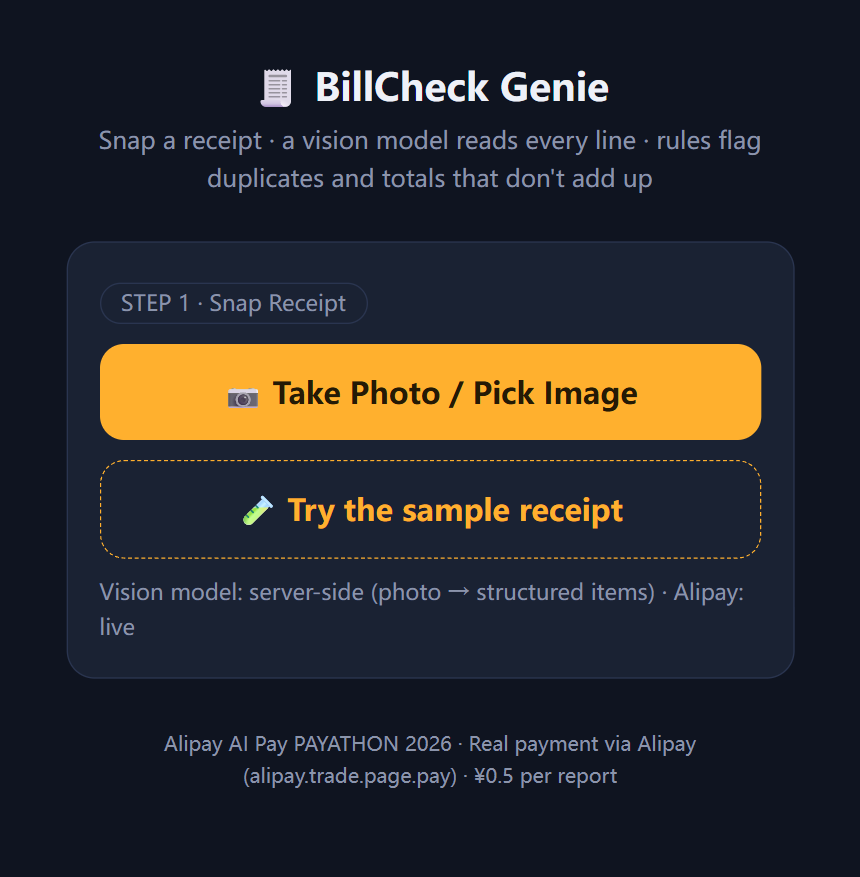
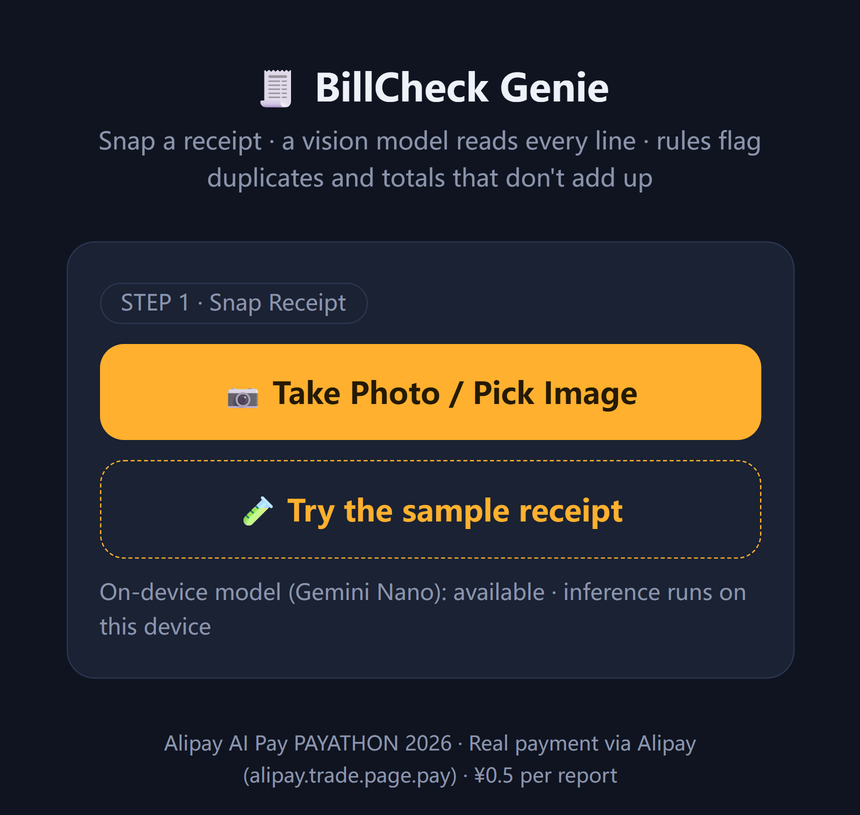
Pin Firebase AI Logic to on-device inference
Cloud Gemini needs a billing account on this project, and a Chinese Visa
card cannot be attached to Google Payments. Rather than fight that, pin
the hybrid API to InferenceMode.ONLY_ON_DEVICE: Firebase AI Logic still
does the work, inference runs in Chrome's built-in Gemini Nano, and the
project stays on the free Spark plan with zero per-scan API cost.

- hybrid-ai.js: ONLY_ON_DEVICE, declare expectedInputs for text + image,
  drop the cloud model and the cloud retry (server proxy is the fallback)
- index.html: honest badge/hint copy, no more 'cloud Gemini' claim
- README: explain the trade-off and the App Check-only network capture
- docs: re-shot home and report screenshots

Verified locally: 5-line receipt read end to end in 13s, duplicate line
flagged, total 128.50 matched; the only outbound request was the App
Check token exchange.

diff --git a/app/hybrid-ai.js b/app/hybrid-ai.js
@@ -1,16 +1,18 @@
-// hybrid-ai.js — 浏览器端 Firebase AI Logic（hybrid inference）
+// hybrid-ai.js — 浏览器端 Firebase AI Logic（on-device inference）
 //
-// 端侧优先：可用时用 Chrome 内置 Gemini Nano（Prompt API）在设备上推理，
-// 不可用时由 SDK 自动回落到云端 Gemini。两条路都跑同一个 prompt 与 JSON 解析。
+// 设计取舍：只用端侧。Firebase AI Logic 的 hybrid API 支持四种推理模式，
+// 这里固定用 ONLY_ON_DEVICE —— 推理跑在 Chrome 内置的 Gemini Nano 上，
+// 小票照片不离开设备、没有 API 调用费用、也不依赖项目的计费状态。
+// 端侧不可用时（旧浏览器 / 模型未下载完）直接抛错，由 index.html 回落到
+// 服务端 /api/scan，用户不会看到白屏。
 //
 // 依赖通过 CDN 动态 import，项目本身仍然零构建（no bundler）。
 
 import { SYSTEM_PROMPT, USER_PROMPT, extractJson, auditReceipt } from './audit.js';
 
 const CDN = 'https://www.gstatic.com/firebasejs/13.4.0';
-const DEFAULT_CLOUD_MODEL = 'gemini-2.5-flash';
 
-let cache = null;   // { hybrid, cloudOnly, config }
+let cache = null;   // { model, config, sdk }
 
 function config() {
   const c = (typeof window !== 'undefined' && window.__FIREBASE_CONFIG__) || null;
@@ -18,15 +20,21 @@ function config() {
   return c;
 }
 
-/** 端侧模型可用性（不依赖 Firebase，直接问 Chrome 的 Prompt API） */
+/** 端侧能力探测（不依赖 Firebase，直接问 Chrome 的 Prompt API） */
 export async function onDeviceAvailability() {
-  if (typeof LanguageModel === 'undefined') return { supported: false, state: 'unavailable' };
-  try {
-    const state = await LanguageModel.availability();
-    return { supported: true, state };
-  } catch (e) {
-    return { supported: true, state: 'error', message: String(e && e.message ? e.message : e) };
+  if (typeof LanguageModel === 'undefined') {
+    return { supported: false, state: 'unavailable', text: 'unavailable', image: 'unavailable' };
   }
+  const out = { supported: true, text: 'unknown', image: 'unknown' };
+  try {
+    out.text = await LanguageModel.availability();
+    out.image = await LanguageModel.availability({ expectedInputs: [{ type: 'image' }] });
+    out.state = out.image === 'available' ? 'available' : out.image;
+  } catch (e) {
+    out.state = 'error';
+    out.message = String(e && e.message ? e.message : e);
+  }
+  return out;
 }
 
 async function build() {
@@ -34,40 +42,41 @@ async function build() {
   const cfg = config();
   if (!cfg) throw new Error('firebase config missing (app/firebase-config.js)');
 
-  const [{ initializeApp }, ai] = await Promise.all([
+  const [{ initializeApp }, ai, appCheck] = await Promise.all([
     import(`${CDN}/firebase-app.js`),
     import(`${CDN}/firebase-ai.js`),
+    import(`${CDN}/firebase-app-check.js`),
   ]);
 
   const app = initializeApp(cfg, 'billcheck');
+
+  // App Check 在 AI Logic 上是强制校验项：即使是端侧推理，
+  // SDK 初始化也会读这个配置，缺了会在开发期报错。
+  if (cfg.appCheck && cfg.appCheck.siteKey) {
+    const provider = cfg.appCheck.provider === 'enterprise'
+      ? new appCheck.ReCaptchaEnterpriseProvider(cfg.appCheck.siteKey)
+      : new appCheck.ReCaptchaV3Provider(cfg.appCheck.siteKey);
+    appCheck.initializeAppCheck(app, { provider, isTokenAutoRefreshEnabled: true });
+  }
+
   const aiInstance = ai.getAI(app, { backend: new ai.GoogleAIBackend() });
 
-  const cloudModel = cfg.cloudModel || DEFAULT_CLOUD_MODEL;
-  const hybrid = ai.getGenerativeModel(aiInstance, {
-    mode: ai.InferenceMode.PREFER_ON_DEVICE,
+  // ONLY_ON_DEVICE：不建云端模型、不发云端请求。
+  const model = ai.getGenerativeModel(aiInstance, {
+    mode: ai.InferenceMode.ONLY_ON_DEVICE,
     onDeviceParams: {
       createOptions: {
         initialPrompts: [{ role: 'system', content: SYSTEM_PROMPT }],
-      },
-    },
-    inCloudParams: {
-      model: cloudModel,
-      systemInstruction: SYSTEM_PROMPT,
-      generationConfig: {
-        responseMimeType: 'application/json',
-        temperature: 0.1,
-        maxOutputTokens: 1200,
+        expectedInputs: [
+          { type: 'text', languages: ['en'] },
+          { type: 'image' },
+        ],
+        expectedOutputs: [{ type: 'text', languages: ['en'] }],
       },
     },
   });
 
-  const cloudOnly = ai.getGenerativeModel(aiInstance, {
-    model: cloudModel,
-    systemInstruction: SYSTEM_PROMPT,
-    generationConfig: { responseMimeType: 'application/json', temperature: 0.1, maxOutputTokens: 1200 },
-  });
-
-  cache = { hybrid, cloudOnly, config: cfg, sdk: ai };
+  cache = { model, config: cfg, sdk: ai };
   return cache;
 }
 
@@ -80,41 +89,27 @@ function parts(dataUrl) {
   ];
 }
 
-function sourceLabel(src) {
-  if (src === 'on_device') return 'on-device · Gemini Nano';
-  if (src === 'in_cloud') return 'cloud · Gemini';
-  return 'unknown';
-}
-
 /**
- * 扫描一张小票。
+ * 扫描一张小票（纯端侧推理）。
+ * 失败时抛错，调用方负责回落到服务端。
  * @returns {Promise<{items,findings,total,dupTotal,merchant,currency,engine,source,sourceLabel}>}
  */
 export async function scanReceipt(dataUrl) {
-  const { hybrid, cloudOnly } = await build();
+  const { model } = await build();
   const content = parts(dataUrl);
 
-  let result;
-  try {
-    result = await hybrid.generateContent(content);
-  } catch (err) {
-    // 端侧失败（模型未下载 / 浏览器不支持多模态输入）→ 显式再走一次纯云端
-    if (typeof console !== 'undefined') console.warn('[hybrid] on-device path failed, retrying in cloud:', err && err.message);
-    result = await cloudOnly.generateContent(content);
-    result.__fallbackReason = String((err && err.message) || err);
-  }
+  const result = await model.generateContent(content);
 
   const text = result.response.text();
   const parsed = extractJson(text);
   if (!parsed) throw new Error('model returned no JSON');
 
   const report = auditReceipt(parsed);
-  const source = result.inferenceSource || 'in_cloud';
+  const source = result.inferenceSource || 'on_device';
   return {
     ...report,
-    engine: sourceLabel(source),
+    engine: 'on-device · Gemini Nano',
     source,
-    sourceLabel: sourceLabel(source),
-    fallbackReason: result.__fallbackReason || null,
+    sourceLabel: 'on-device · Gemini Nano',
   };
 }

diff --git a/app/index.html b/app/index.html
@@ -104,7 +104,7 @@ function readAsDataURL(file) {
 }
 
 async function scan(imageDataUrl) {
-  // 1) 浏览器端 Firebase AI Logic：端侧 Gemini Nano 优先，不可用时自动到云端
+  // 1) 浏览器端 Firebase AI Logic：只用端侧 Gemini Nano，照片不出本机
   if (window.__FIREBASE_CONFIG__) {
     try {
       const mod = await import('./hybrid-ai.js');
@@ -131,17 +131,16 @@ async function scan(imageDataUrl) {
   try {
     const mod = await import('./hybrid-ai.js');
     const a = await mod.onDeviceAvailability();
-    const hasCfg = !!window.__FIREBASE_CONFIG__;
     if (!a.supported) {
-      el.textContent = hasCfg
-        ? 'On-device model not exposed by this browser — inference will run in the cloud.'
-        : 'Cloud inference active. Open in Chrome 139+ to run the on-device model.';
+      el.textContent = 'This browser does not expose the on-device model — using the server-side model instead.';
       return;
     }
     const label = { available: 'available', downloadable: 'needs a one-time download', downloading: 'downloading', unavailable: 'unavailable' }[a.state] || a.state;
-    el.textContent = `On-device model (Gemini Nano): ${label} · hybrid inference prefers on-device`;
+    el.textContent = a.state === 'available'
+      ? 'On-device model (Gemini Nano): available · inference runs on this device'
+      : `On-device model (Gemini Nano): ${label} · keeps the photo on-device`;
   } catch (e) {
-    el.textContent = 'Checking model availability failed — cloud inference will be used.';
+    el.textContent = 'Checking model availability failed — the server-side model will be used.';
   }
 })();
 
@@ -166,9 +165,7 @@ function setSourceBadge(r) {
   el.className = 'src-badge show ' + (device ? 'device' : 'cloud');
   el.textContent = device
     ? '⚡ On-device · Gemini Nano — the photo never left this device'
-    : hybrid
-      ? '☁ Cloud · Gemini — on-device model unavailable on this browser'
-      : '☁ Cloud · server proxy';
+    : '☁ Server-side model — on-device unavailable on this browser';
   el.title = r.fallbackReason ? 'on-device attempt failed: ' + r.fallbackReason : '';
 }
 

diff --git a/app/firebase-config.js b/app/firebase-config.js
@@ -1,22 +1,27 @@
 // firebase-config.js — 公开的 Firebase Web 配置（apiKey 对 Web 应用本身就是公开信息，
 // 真正的访问控制在 App Check + Firebase 控制台的授权域名）。
 //
-// 拿到真实配置后，把下面整个对象替换成 Firebase 控制台「项目设置 → 你的应用」里给出的 config。
-// 保持字段名不变，可直接粘贴。
-//
-// 未配置时：app 会自动回落到服务端 /api/scan（WorkBuddy 云 LLM），页面照常可用，
-// 只是不会走 Firebase AI Logic。
+// 项目：billcheck-genie（Spark 免费计划）
+// 推理模式：Firebase AI Logic + InferenceMode.ONLY_ON_DEVICE
+//   → 推理跑在 Chrome 内置的 Gemini Nano 上，不调用云端 Gemini，
+//     因此不需要 Blaze 计划、不需要绑定结算账号，也不产生 API 费用。
+// 端侧不可用时：app 自动回落到服务端 /api/scan，页面照常可用。
 
-window.__FIREBASE_CONFIG__ = null;
-
-/* 填好后的样子（示例，勿直接使用）：
 window.__FIREBASE_CONFIG__ = {
-  apiKey: "AIza...",
+  apiKey: "AIzaSyA4UU66GVgLTMy519hdh8zZsJ8-LhHY1mE",
   authDomain: "billcheck-genie.firebaseapp.com",
   projectId: "billcheck-genie",
   storageBucket: "billcheck-genie.firebasestorage.app",
-  messagingSenderId: "000000000000",
-  appId: "1:000000000000:web:abcdef123456",
-  cloudModel: "gemini-2.5-flash"   // 云端回落用的模型，可省
+  messagingSenderId: "697066343375",
+  appId: "1:697066343375:web:4cbafb6b34768aed0f60ba",
+  // App Check（Firebase 自 2026-11-02 起对 AI Logic 强制要求）
+  // provider: "enterprise" = Google Cloud Fraud Defense（原 reCAPTCHA Enterprise）
+  appCheck: {
+    provider: "enterprise",
+    siteKey: "6Lc-dTAuAAAAAK6AdshKOAl2GX1LY1K2l0YKEmrO"
+  }
 };
-*/
+
+// 本地调试 App Check（只在你自己机器上有效）：把控制台打印的 token 贴到
+// Firebase 控制台 → App Check → 应用 → 管理调试令牌。生产域名请改用 reCAPTCHA v3。
+// self.FIREBASE_APPCHECK_DEBUG_TOKEN = true;

diff --git a/README.md b/README.md
@@ -2,7 +2,7 @@
 
 **Snap a receipt, get an AI audit of what you were overcharged — one check, one ¥0.5 payment.**
 
-Built for **Alipay AI Pay PAYATHON 2026** (Vibe Pay / machine-pay track), **SLAY HACKS 2026** and **Google #BuildHybridAI 2026** (Firebase AI Logic hybrid inference).
+Built for **Alipay AI Pay PAYATHON 2026** (Vibe Pay / machine-pay track), **SLAY HACKS 2026** and **Google #BuildHybridAI 2026** (Firebase AI Logic, on-device Gemini Nano with a hybrid-API fallback).
 
 | | |
 |---|---|
@@ -27,45 +27,62 @@ Built for **Alipay AI Pay PAYATHON 2026** (Vibe Pay / machine-pay track), **SLAY
 
 There is no hard-coded report. The photo is turned into structured JSON by a vision model, and the app audits the numbers.
 
-**Primary path — Firebase AI Logic, hybrid inference (browser):**
+**Primary path — Firebase AI Logic, on-device inference (browser):**
 
 ```
 photo (data URL)
-   └─> Firebase AI Logic SDK  (InferenceMode.PREFER_ON_DEVICE)
-          ├─ on-device: Chrome's built-in Gemini Nano via the Prompt API
-          │     (Chrome desktop 139+, no photo leaves the machine)
-          └─ fallback:  cloud-hosted Gemini through the same SDK
-   └─> strict JSON  ─>  auditReceipt()  ─> report + ⚡/☁ source badge
+   └─> Firebase AI Logic SDK  (InferenceMode.ONLY_ON_DEVICE)
+          └─ Chrome's built-in Gemini Nano, via the Prompt API
+                (multimodal input: the image is read on this machine)
+   └─> strict JSON  ─>  auditReceipt()  ─> report + ⚡ on-device badge
 ```
 
-**Fallback path — server proxy:** if no Firebase config is present, or the AI Logic call fails,
-the same photo goes to `POST /api/scan`, which calls a vision LLM from the server with the key
-kept server-side. The UI badge always says which path actually ran, so nothing here is implied.
+**Why on-device only — a deliberate choice, not a limitation.** A receipt is a document with a shop,
+a timestamp and a basket of what someone buys; uploading it to a hosted model is a real privacy cost
+for a report that only needs arithmetic. Pinning `ONLY_ON_DEVICE` gives three things at once:
+the photo never leaves the machine, there is no per-scan API cost, and the project needs no billing
+account (Firebase **Spark** is enough — nothing is ever sent to the Gemini API). The hybrid API is
+what makes this a one-line decision: the same `getGenerativeModel` call accepts
+`PREFER_ON_DEVICE` / `ONLY_IN_CLOUD` / `PREFER_IN_CLOUD`, so the deployment target is a single enum,
+not a rewrite. Verified with a DevTools network capture during a scan: the only outbound request is
+the App Check token exchange — there is no `generativelanguage.googleapis.com` traffic.
 
-- **Code**: `app/hybrid-ai.js` (imports `firebase/ai`, sets `mode: PREFER_ON_DEVICE`, reads `result.inferenceSource`) and `app/audit.js` (one audit implementation shared by browser and Node).
+**Fallback path — server proxy:** if the browser does not expose the on-device model (Safari, older
+Chrome), or the AI Logic call fails, the same photo goes to `POST /api/scan`, which calls a vision
+LLM from the server with the key kept server-side. The UI badge always says which path actually ran,
+so nothing here is implied:
+
+| badge | meaning |
+| --- | --- |
+| ⚡ On-device · Gemini Nano | Firebase AI Logic, inference ran locally |
+| ☁ Server-side model | on-device unavailable, server proxy handled it |
+
+- **Code**: `app/hybrid-ai.js` (imports `firebase/ai`, sets `mode: ONLY_ON_DEVICE`, declares `expectedInputs` for text + image, reads `result.inferenceSource`) and `app/audit.js` (one audit implementation shared by browser and Node).
 - **Prompt**: a fixed instruction pins the model to strict JSON and forbids inventing line items; unreadable values must be `null`.
 - **Schema**: `{"merchant","currency","items":[{"name","qty","unit_price","amount"}],"total"}`
 - **Audit**: `auditReceipt()` only does arithmetic — group identical names to surface duplicate scans, and compare the item sum against the printed total. It never guesses market prices.
-- **Latency**: ~4 s end to end in the cloud path; on-device is faster and works offline.
+- **Measured**: 13 s for a 5-line receipt on a laptop with the model already resident; ~4 s on the server proxy path.
 - **Failure path**: an unreadable photo returns a plain "could not read this photo" message instead of a fabricated report.
 
 The **Try the sample receipt** button runs the same audit rules on a built-in fixture and is labelled as such — it exists so judges can walk the payment flow without a paper receipt.
 
-## Hybrid inference setup (Firebase AI Logic)
+## On-device AI setup (Firebase AI Logic)
 
-On-device vision needs **Chrome desktop 139+** with
-`chrome://flags/#prompt-api-for-gemini-nano-multimodal-input` enabled; without it the SDK falls
-back to the cloud automatically (the badge changes from ⚡ to ☁).
+On-device vision needs **Chrome desktop** (stable, 138+) with
+`chrome://flags/#prompt-api-for-gemini-nano-multimodal-input` enabled so the model accepts images;
+without it the app falls back to the server proxy (the badge changes from ⚡ to ☁).
 
 ```bash
-# 1. Firebase project + AI Logic (Gemini Developer API, no billing needed)
+# 1. Firebase project + AI Logic, Gemini Developer API provider.
+#    No billing upgrade: on-device inference never reaches the Gemini API,
+#    so the free Spark plan is sufficient.
 # 2. Register a Web app, paste its config into app/firebase-config.js
 # 3. AI Logic requires App Check. For local runs, a debug token is enough:
 export FIREBASE_APPCHECK_DEBUG_TOKEN=true     # prints a token in the console; add it in
                                               # Firebase console -> App Check -> Manage debug tokens
 ```
 
-`app/firebase-config.js` ships as `null`. With no config the app simply uses the server proxy,
+`app/firebase-config.js` is optional: blank the `apiKey` and the app simply uses the server proxy,
 so the demo never breaks.
 
 ## Payment integration
